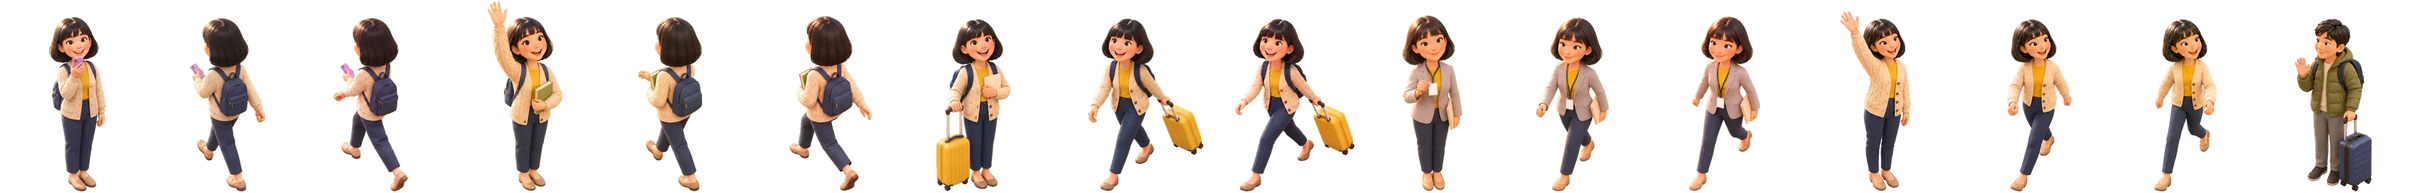
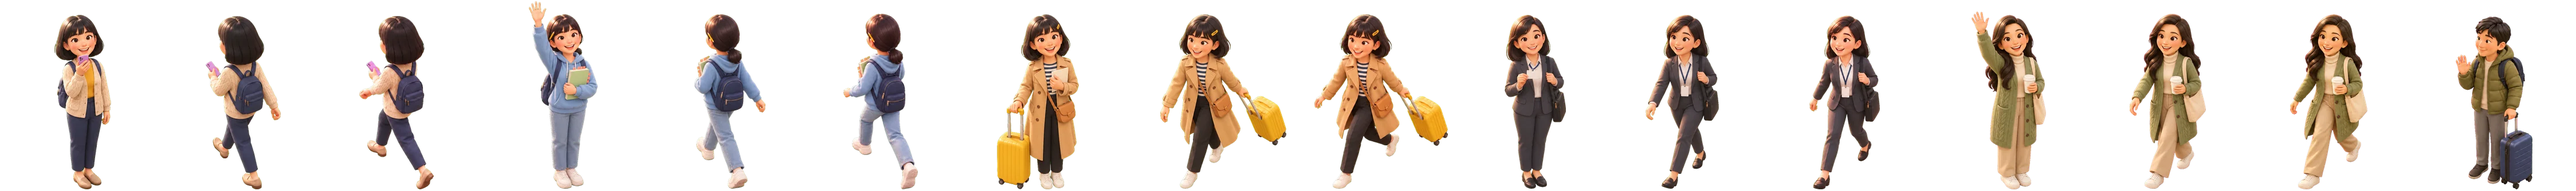
synk.im 새로 짓기: 마을 길을 걷는 학생이 단계마다 옷 · 머리 · 소품 · 나이가 달라지게(시안 한 · 영, 11-21 유호님 「변화가 없어 … 옷차림이나 이런거가 똑같아서 디테일이 부족해보여」)
교실은 하늘색 후드티와 묶은 머리, 유학은 트렌치코트와 여행 가방, 취업은 짙은 회색 정장과 사원증, 모임은 긴 웨이브 머리와 세이지색 카디건으로 다시 구웠다. 설 때 걷던 모습이 0.4초 동안 옅어지며 새 모습이 드러난다. 마을 안 장면 그림은 그대로라 옷이 다르다.

diff --git a/docs/디자인/synk.im_새로짓기_20261119/시안/en/index.html b/docs/디자인/synk.im_새로짓기_20261119/시안/en/index.html
@@ -176,6 +176,7 @@ html[data-sky="sunset"] .gate-sky::after{content:"";position:absolute;inset:0;ba
 /* 길을 걷는 학생과 집 앞의 후배: 그림띠 한 장에서 칸을 고른다. 자리 · 크기 · 칸은 스크립트가 정한다 */
 .w-fig{position:absolute;left:0;top:0;pointer-events:none}
 .w-fig i{position:absolute;inset:0;background:url(../assets/walk.webp) 0 0 no-repeat}
+.w-fig i+i{opacity:0}
 .w-fig::before{content:"";position:absolute;left:30%;width:56%;bottom:-2%;height:6%;border-radius:50%;background:radial-gradient(closest-side,rgba(84,60,32,.32),rgba(84,60,32,0))}
 .w-new{opacity:0;transition:opacity .8s var(--ease)}
 .w-new.on{opacity:1}
@@ -612,7 +613,7 @@ html[lang="en"] .hang .lines li.on h3{font-weight:600;-webkit-text-stroke:.024em
           <svg class="w-loop" viewBox="0 0 1536 1024" preserveAspectRatio="none" aria-hidden="true"><path class="draw" pathLength="100" d="M785.0 702.0 C775.8 698.0 767.2 690.3 760.0 684.0 C752.8 677.7 747.3 674.7 742.0 664.0 C736.7 653.3 732.0 635.7 728.0 620.0 C724.0 604.3 720.0 585.8 718.0 570.0 C716.0 554.2 715.7 538.3 716.0 525.0 C716.3 511.7 717.2 500.8 720.0 490.0 C722.8 479.2 727.2 468.3 733.0 460.0 C738.8 451.7 745.5 445.8 755.0 440.0 C764.5 434.2 775.8 428.7 790.0 425.0 C804.2 421.3 821.7 421.2 840.0 418.0 C858.3 414.8 880.0 409.5 900.0 406.0 C920.0 402.5 939.2 400.0 960.0 397.0 C980.8 394.0 1001.7 389.5 1025.0 388.0 C1048.3 386.5 1078.8 387.7 1100.0 388.0 C1121.2 388.3 1132.8 388.2 1152.0 390.0 C1171.2 391.8 1197.8 395.3 1215.0 399.0 C1232.2 402.7 1243.8 406.5 1255.0 412.0 C1266.2 417.5 1275.8 422.7 1282.0 432.0 C1288.2 441.3 1287.7 456.7 1292.0 468.0 C1296.3 479.3 1303.7 489.7 1308.0 500.0 C1312.3 510.3 1316.3 520.8 1318.0 530.0 C1319.7 539.2 1319.3 547.0 1318.0 555.0 C1316.7 563.0 1314.7 570.2 1310.0 578.0 C1305.3 585.8 1299.2 594.2 1290.0 602.0 C1280.8 609.8 1267.5 617.3 1255.0 625.0 C1242.5 632.7 1228.8 641.3 1215.0 648.0 C1201.2 654.7 1185.3 659.8 1172.0 665.0 C1158.7 670.2 1147.0 674.0 1135.0 679.0 C1123.0 684.0 1114.2 689.3 1100.0 695.0 C1085.8 700.7 1066.7 708.7 1050.0 713.0 C1033.3 717.3 1016.7 719.2 1000.0 721.0 C983.3 722.8 966.7 723.8 950.0 724.0 C933.3 724.2 916.7 723.7 900.0 722.0 C883.3 720.3 864.2 716.3 850.0 714.0 C835.8 711.7 825.8 710.0 815.0 708.0 C804.2 706.0 794.2 706.0 785.0 702.0Z"></path></svg>
           <img class="w-occ" src="../assets/occ-house.webp" alt=""><img class="w-occ" src="../assets/occ-cafe.webp" alt="">
           <div class="w-fig w-new" aria-hidden="true"><i></i></div>
-          <div class="w-fig w-me" aria-hidden="true"><i></i></div>
+          <div class="w-fig w-me" aria-hidden="true"><i></i><i></i></div>
           <ol class="w-pins" aria-label="The five places one person passes through"><li style="--x:44.99%;--y:51.86%"><button type="button"><b>1</b><span>Korean</span></button></li><li style="--x:53.32%;--y:29.39%"><button type="button"><b>2</b><span>Classroom</span></button></li><li style="--x:75.26%;--y:27.73%"><button type="button"><b>3</b><span>Study in Korea</span></button></li><li style="--x:90.17%;--y:39.75%"><button type="button"><b>4</b><span>Work in Korea</span></button></li><li style="--x:83.33%;--y:57.52%"><button type="button"><b>5</b><span>Community</span></button></li></ol>
         </div>
       </div>
@@ -890,7 +891,7 @@ html[lang="en"] .hang .lines li.on h3{font-weight:600;-webkit-text-stroke:.024em
      그곳의 말풍선이 켜진다. 길을 한 바퀴 돌아 집 앞에 오면 새로 온 후배가 서 있고 학생이 손을 흔든다. 한 번 돌고 멈춘다.
      그림띠 칸: 단계마다 [서 있기, 걷기 왼발, 걷기 오른발] 셋씩(한국어 · 교실은 뒤로 걷는 모습, 유학 · 취업 · 모임은 앞으로 걷는 모습), 마지막 칸은 후배.
      칸의 사람은 화면 왼쪽을 향한다. 오른쪽으로 걸을 때는 좌우를 뒤집는다 */
-  const WALK = {"n": 16, "ar": 0.7781, "body": 0.8876, "pad": 0.0118, "occ": [{"box": [636, 505, 800, 668], "base": 660, "x": [690, 800]}, {"box": [1095, 575, 1375, 745], "base": 706, "x": [1090, 1380]}]};
+  const WALK = {"n": 16, "ar": 0.8413, "body": 0.8982, "pad": 0.012, "occ": [{"box": [636, 505, 800, 668], "base": 660, "x": [690, 800]}, {"box": [1095, 575, 1375, 745], "base": 706, "x": [1090, 1380]}]};
   const me = $('.w-me'), newbie = $('.w-new'), pinLis = $$('li', pins), occs = $$('.w-occ');
   const LEN = loopDraw.getTotalLength(), at = f => loopDraw.getPointAtLength(clamp(f) * LEN);
   const SPEED = .14, STEP = 36, STAY = 1100, FIRST_STAY = 800;    // 그림 화소/ms, 걸음 한 번의 길이(그림 화소), 한 곳에 서 있는 시간(ms)
@@ -902,36 +903,44 @@ html[lang="en"] .hang .lines li.on h3{font-weight:600;-webkit-text-stroke:.024em
   for (let i = 0, f = 1; i <= 400; i++) { const a = at(i / 400), b = at(i / 400 + .003), dx = b.x - a.x, dl = Math.hypot(dx, b.y - a.y) || 1; if (dx / dl > .3) f = -1; else if (dx / dl < -.3) f = 1; FACE.push(f); }
   const PLAN = [];                                                    // [시작 ms, 끝 ms, 무엇]
   let T = 0;
-  const stay = (f, k, ms, pin) => { PLAN.push({ t0: T, t1: T + ms, f, k, pin }); T += ms; };
+  // was: 서기 직전까지 걷던 칸. 설 때 그 칸이 0.42초 동안 옅어지며 새 단계의 모습이 드러난다(옷 · 머리 · 소품이 한꺼번에 바뀌어 순간 교체는 튀어 보였다)
+  const stay = (f, k, ms, pin, was = -1, wasFlip = 1) => { PLAN.push({ t0: T, t1: T + ms, f, k, pin, was, wasFlip }); T += ms; };
   stay(0, 0, FIRST_STAY, 0);
+  let lastWas;
   for (let i = 0; i < 5; i++) {
     const d = (STOPS[i + 1] - STOPS[i]) * LEN, ms = d / SPEED;
     PLAN.push({ t0: T, t1: T + ms, from: STOPS[i], to: STOPS[i + 1], look: i, d }); T += ms;
-    if (i < 4) stay(STOPS[i + 1], 3 * (i + 1), STAY, i + 1);
+    const was = 3 * i + 1 + (Math.floor(d / STEP) % 2), wasFlip = FACE[Math.round(clamp(STOPS[i + 1]) * 400)];
+    if (i < 4) stay(STOPS[i + 1], 3 * (i + 1), STAY, i + 1, was, wasFlip);
+    else lastWas = [was, wasFlip];
   }
   const END = T + 900;                                                // 집 앞에 서고 길의 노란 줄이 다 이어지면 멈춘다
-  stay(STOPS[5], 12, Infinity, -1);
+  stay(STOPS[5], 12, Infinity, -1, ...lastWas);
   const last = PLAN[PLAN.length - 2], NEW_AT = last.t0 + (last.t1 - last.t0) * .45;   // 마지막 길의 절반쯤에서 후배가 나타난다
   function walkPose(t) {
     const s = PLAN.find(p => t < p.t1);
     if (s.from === undefined) {
       const u = clamp((t - s.t0) / 260), home = s.pin === -1;
-      return { f: s.f, k: s.k, flip: s.k === 12 ? -1 : 1, bob: 0, pop: 1 + .045 * Math.sin(Math.PI * u) * (s.t0 > 0), pin: s.pin, trail: home ? s.f + (1 - s.f) * smooth(0, 600, t - s.t0) : s.f, newbie: t >= NEW_AT };
+      return { f: s.f, k: s.k, flip: s.k === 12 ? -1 : 1, bob: 0, pop: 1 + .045 * Math.sin(Math.PI * u) * (s.t0 > 0), pin: s.pin, trail: home ? s.f + (1 - s.f) * smooth(0, 600, t - s.t0) : s.f, newbie: t >= NEW_AT,
+        was: s.was, wasFlip: s.wasFlip, fade: s.was < 0 ? 0 : 1 - smooth(0, 420, t - s.t0) };
     }
     const u = (t - s.t0) / (s.t1 - s.t0), e = .5 * u + .5 * u * u * (3 - 2 * u);    // 걷기 시작과 멈춤만 살짝 느리게
     const d = e * s.d, f = s.from + (s.to - s.from) * e, step = d / STEP;
-    return { f, k: 3 * s.look + 1 + (Math.floor(step) % 2), flip: FACE[Math.round(clamp(f) * 400)], bob: 1.4 * Math.abs(Math.sin(Math.PI * step)), pop: 1, pin: -1, trail: f, newbie: t >= NEW_AT };
+    return { f, k: 3 * s.look + 1 + (Math.floor(step) % 2), flip: FACE[Math.round(clamp(f) * 400)], bob: 1.4 * Math.abs(Math.sin(Math.PI * step)), pop: 1, pin: -1, trail: f, newbie: t >= NEW_AT, was: -1, fade: 0 };
   }
-  function place(el, x, y, k, flip, bob, pop) {
+  const cell = (im, k, flip, bob) => { im.style.backgroundPosition = `${k / (WALK.n - 1) * 100}% 0`; im.style.transform = `translateY(${-bob}%) scaleX(${flip})`; };
+  function place(el, x, y, st) {
     el.style.left = x / 15.36 + '%'; el.style.top = y / 10.24 + '%';
-    el.style.transform = `translate(-50%,${-(1 - WALK.pad) * 100}%) scale(${sizeOf(y) * pop})`;
-    const im = el.firstElementChild;
-    im.style.backgroundPosition = `${k / (WALK.n - 1) * 100}% 0`;
-    im.style.transform = `translateY(${-bob}%) scaleX(${flip})`;
+    el.style.transform = `translate(-50%,${-(1 - WALK.pad) * 100}%) scale(${sizeOf(y) * st.pop})`;
+    const [now, was] = el.children;
+    cell(now, st.k, st.flip, st.bob);
+    if (!was) return;
+    was.style.opacity = st.fade;
+    if (st.fade > 0) { cell(was, st.was, st.wasFlip, 0); now.style.opacity = 1 - st.fade * .6; } else now.style.opacity = 1;
   }
   function walkDraw(st, idle) {
     const p = at(st.f);
-    place(me, p.x, p.y, st.k, st.flip, st.bob, st.pop);
+    place(me, p.x, p.y, st);
     loopDraw.style.strokeDashoffset = idle || st.trail <= 0 ? 100.5 : 100 * (1 - st.trail);   // 아직 안 걸었으면 줄 끝의 둥근 마개도 보이지 않게
     pinLis.forEach((li, i) => li.classList.toggle('here', !idle && i === st.pin));
     newbie.classList.toggle('on', !idle && st.newbie);
@@ -940,9 +949,9 @@ html[lang="en"] .hang .lines li.on h3{font-weight:600;-webkit-text-stroke:.024em
   [me, newbie].forEach(el => {                                       // 칸 하나의 크기: 집 앞에서 사람 키가 그림 화소로 94(처음 그림 속 학생보다 조금 작게, 건물과 어울리게)
     el.style.width = 94 / WALK.body * WALK.ar / 15.36 + '%'; el.style.aspectRatio = WALK.ar;
     el.style.transformOrigin = `50% ${(1 - WALK.pad) * 100}%`;
-    const im = el.firstElementChild; im.style.backgroundSize = `${WALK.n * 100}% 100%`; im.style.transformOrigin = `50% ${(1 - WALK.pad) * 100}%`;
+    for (const im of el.children) { im.style.backgroundSize = `${WALK.n * 100}% 100%`; im.style.transformOrigin = `50% ${(1 - WALK.pad) * 100}%`; }
   });
-  { const p = at(0); place(newbie, p.x, p.y, WALK.n - 1, -1, 0, 1); }
+  { const p = at(0); place(newbie, p.x, p.y, { k: WALK.n - 1, flip: -1, bob: 0, pop: 1 }); }
   occs.forEach((o, i) => { const [x0, y0, x1, y1] = WALK.occ[i].box; Object.assign(o.style, { left: x0 / 15.36 + '%', top: y0 / 10.24 + '%', width: (x1 - x0) / 15.36 + '%', height: (y1 - y0) / 10.24 + '%' }); });
   let walkT0 = 0, walkRaf = 0, walking = false, walkIdle = false;
   function walkFrame(now) { const t = now - walkT0; walkDraw(walkPose(t)); walkRaf = t < END ? requestAnimationFrame(walkFrame) : 0; }

diff --git a/docs/디자인/synk.im_새로짓기_20261119/시안/index.html b/docs/디자인/synk.im_새로짓기_20261119/시안/index.html
@@ -177,6 +177,7 @@ html[data-sky="sunset"] .gate-sky::after{content:"";position:absolute;inset:0;ba
 /* 길을 걷는 학생과 집 앞의 후배: 그림띠 한 장에서 칸을 고른다. 자리 · 크기 · 칸은 스크립트가 정한다 */
 .w-fig{position:absolute;left:0;top:0;pointer-events:none}
 .w-fig i{position:absolute;inset:0;background:url(assets/walk.webp) 0 0 no-repeat}
+.w-fig i+i{opacity:0}
 .w-fig::before{content:"";position:absolute;left:30%;width:56%;bottom:-2%;height:6%;border-radius:50%;background:radial-gradient(closest-side,rgba(84,60,32,.32),rgba(84,60,32,0))}
 .w-new{opacity:0;transition:opacity .8s var(--ease)}
 .w-new.on{opacity:1}
@@ -590,7 +591,7 @@ p{text-wrap:pretty}
           <svg class="w-loop" viewBox="0 0 1536 1024" preserveAspectRatio="none" aria-hidden="true"><path class="draw" pathLength="100" d="M785.0 702.0 C775.8 698.0 767.2 690.3 760.0 684.0 C752.8 677.7 747.3 674.7 742.0 664.0 C736.7 653.3 732.0 635.7 728.0 620.0 C724.0 604.3 720.0 585.8 718.0 570.0 C716.0 554.2 715.7 538.3 716.0 525.0 C716.3 511.7 717.2 500.8 720.0 490.0 C722.8 479.2 727.2 468.3 733.0 460.0 C738.8 451.7 745.5 445.8 755.0 440.0 C764.5 434.2 775.8 428.7 790.0 425.0 C804.2 421.3 821.7 421.2 840.0 418.0 C858.3 414.8 880.0 409.5 900.0 406.0 C920.0 402.5 939.2 400.0 960.0 397.0 C980.8 394.0 1001.7 389.5 1025.0 388.0 C1048.3 386.5 1078.8 387.7 1100.0 388.0 C1121.2 388.3 1132.8 388.2 1152.0 390.0 C1171.2 391.8 1197.8 395.3 1215.0 399.0 C1232.2 402.7 1243.8 406.5 1255.0 412.0 C1266.2 417.5 1275.8 422.7 1282.0 432.0 C1288.2 441.3 1287.7 456.7 1292.0 468.0 C1296.3 479.3 1303.7 489.7 1308.0 500.0 C1312.3 510.3 1316.3 520.8 1318.0 530.0 C1319.7 539.2 1319.3 547.0 1318.0 555.0 C1316.7 563.0 1314.7 570.2 1310.0 578.0 C1305.3 585.8 1299.2 594.2 1290.0 602.0 C1280.8 609.8 1267.5 617.3 1255.0 625.0 C1242.5 632.7 1228.8 641.3 1215.0 648.0 C1201.2 654.7 1185.3 659.8 1172.0 665.0 C1158.7 670.2 1147.0 674.0 1135.0 679.0 C1123.0 684.0 1114.2 689.3 1100.0 695.0 C1085.8 700.7 1066.7 708.7 1050.0 713.0 C1033.3 717.3 1016.7 719.2 1000.0 721.0 C983.3 722.8 966.7 723.8 950.0 724.0 C933.3 724.2 916.7 723.7 900.0 722.0 C883.3 720.3 864.2 716.3 850.0 714.0 C835.8 711.7 825.8 710.0 815.0 708.0 C804.2 706.0 794.2 706.0 785.0 702.0Z"/></svg>
           <img class="w-occ" src="assets/occ-house.webp" alt=""><img class="w-occ" src="assets/occ-cafe.webp" alt="">
           <div class="w-fig w-new" aria-hidden="true"><i></i></div>
-          <div class="w-fig w-me" aria-hidden="true"><i></i></div>
+          <div class="w-fig w-me" aria-hidden="true"><i></i><i></i></div>
           <ol class="w-pins" aria-label="한 사람이 지나는 다섯 곳"><li style="--x:44.99%;--y:51.86%"><button type="button"><b>1</b><span>한국어</span></button></li><li style="--x:53.32%;--y:29.39%"><button type="button"><b>2</b><span>교실</span></button></li><li style="--x:75.26%;--y:27.73%"><button type="button"><b>3</b><span>유학</span></button></li><li style="--x:90.17%;--y:39.75%"><button type="button"><b>4</b><span>취업</span></button></li><li style="--x:83.33%;--y:57.52%"><button type="button"><b>5</b><span>모임</span></button></li></ol>
         </div>
       </div>
@@ -868,7 +869,7 @@ p{text-wrap:pretty}
      그곳의 말풍선이 켜진다. 길을 한 바퀴 돌아 집 앞에 오면 새로 온 후배가 서 있고 학생이 손을 흔든다. 한 번 돌고 멈춘다.
      그림띠 칸: 단계마다 [서 있기, 걷기 왼발, 걷기 오른발] 셋씩(한국어 · 교실은 뒤로 걷는 모습, 유학 · 취업 · 모임은 앞으로 걷는 모습), 마지막 칸은 후배.
      칸의 사람은 화면 왼쪽을 향한다. 오른쪽으로 걸을 때는 좌우를 뒤집는다 */
-  const WALK = {"n": 16, "ar": 0.7781, "body": 0.8876, "pad": 0.0118, "occ": [{"box": [636, 505, 800, 668], "base": 660, "x": [690, 800]}, {"box": [1095, 575, 1375, 745], "base": 706, "x": [1090, 1380]}]};
+  const WALK = {"n": 16, "ar": 0.8413, "body": 0.8982, "pad": 0.012, "occ": [{"box": [636, 505, 800, 668], "base": 660, "x": [690, 800]}, {"box": [1095, 575, 1375, 745], "base": 706, "x": [1090, 1380]}]};
   const me = $('.w-me'), newbie = $('.w-new'), pinLis = $$('li', pins), occs = $$('.w-occ');
   const LEN = loopDraw.getTotalLength(), at = f => loopDraw.getPointAtLength(clamp(f) * LEN);
   const SPEED = .14, STEP = 36, STAY = 1100, FIRST_STAY = 800;    // 그림 화소/ms, 걸음 한 번의 길이(그림 화소), 한 곳에 서 있는 시간(ms)
@@ -880,36 +881,44 @@ p{text-wrap:pretty}
   for (let i = 0, f = 1; i <= 400; i++) { const a = at(i / 400), b = at(i / 400 + .003), dx = b.x - a.x, dl = Math.hypot(dx, b.y - a.y) || 1; if (dx / dl > .3) f = -1; else if (dx / dl < -.3) f = 1; FACE.push(f); }
   const PLAN = [];                                                    // [시작 ms, 끝 ms, 무엇]
   let T = 0;
-  const stay = (f, k, ms, pin) => { PLAN.push({ t0: T, t1: T + ms, f, k, pin }); T += ms; };
+  // was: 서기 직전까지 걷던 칸. 설 때 그 칸이 0.42초 동안 옅어지며 새 단계의 모습이 드러난다(옷 · 머리 · 소품이 한꺼번에 바뀌어 순간 교체는 튀어 보였다)
+  const stay = (f, k, ms, pin, was = -1, wasFlip = 1) => { PLAN.push({ t0: T, t1: T + ms, f, k, pin, was, wasFlip }); T += ms; };
   stay(0, 0, FIRST_STAY, 0);
+  let lastWas;
   for (let i = 0; i < 5; i++) {
     const d = (STOPS[i + 1] - STOPS[i]) * LEN, ms = d / SPEED;
     PLAN.push({ t0: T, t1: T + ms, from: STOPS[i], to: STOPS[i + 1], look: i, d }); T += ms;
-    if (i < 4) stay(STOPS[i + 1], 3 * (i + 1), STAY, i + 1);
+    const was = 3 * i + 1 + (Math.floor(d / STEP) % 2), wasFlip = FACE[Math.round(clamp(STOPS[i + 1]) * 400)];
+    if (i < 4) stay(STOPS[i + 1], 3 * (i + 1), STAY, i + 1, was, wasFlip);
+    else lastWas = [was, wasFlip];
   }
   const END = T + 900;                                                // 집 앞에 서고 길의 노란 줄이 다 이어지면 멈춘다
-  stay(STOPS[5], 12, Infinity, -1);
+  stay(STOPS[5], 12, Infinity, -1, ...lastWas);
   const last = PLAN[PLAN.length - 2], NEW_AT = last.t0 + (last.t1 - last.t0) * .45;   // 마지막 길의 절반쯤에서 후배가 나타난다
   function walkPose(t) {
     const s = PLAN.find(p => t < p.t1);
     if (s.from === undefined) {
       const u = clamp((t - s.t0) / 260), home = s.pin === -1;
-      return { f: s.f, k: s.k, flip: s.k === 12 ? -1 : 1, bob: 0, pop: 1 + .045 * Math.sin(Math.PI * u) * (s.t0 > 0), pin: s.pin, trail: home ? s.f + (1 - s.f) * smooth(0, 600, t - s.t0) : s.f, newbie: t >= NEW_AT };
+      return { f: s.f, k: s.k, flip: s.k === 12 ? -1 : 1, bob: 0, pop: 1 + .045 * Math.sin(Math.PI * u) * (s.t0 > 0), pin: s.pin, trail: home ? s.f + (1 - s.f) * smooth(0, 600, t - s.t0) : s.f, newbie: t >= NEW_AT,
+        was: s.was, wasFlip: s.wasFlip, fade: s.was < 0 ? 0 : 1 - smooth(0, 420, t - s.t0) };
     }
     const u = (t - s.t0) / (s.t1 - s.t0), e = .5 * u + .5 * u * u * (3 - 2 * u);    // 걷기 시작과 멈춤만 살짝 느리게
     const d = e * s.d, f = s.from + (s.to - s.from) * e, step = d / STEP;
-    return { f, k: 3 * s.look + 1 + (Math.floor(step) % 2), flip: FACE[Math.round(clamp(f) * 400)], bob: 1.4 * Math.abs(Math.sin(Math.PI * step)), pop: 1, pin: -1, trail: f, newbie: t >= NEW_AT };
+    return { f, k: 3 * s.look + 1 + (Math.floor(step) % 2), flip: FACE[Math.round(clamp(f) * 400)], bob: 1.4 * Math.abs(Math.sin(Math.PI * step)), pop: 1, pin: -1, trail: f, newbie: t >= NEW_AT, was: -1, fade: 0 };
   }
-  function place(el, x, y, k, flip, bob, pop) {
+  const cell = (im, k, flip, bob) => { im.style.backgroundPosition = `${k / (WALK.n - 1) * 100}% 0`; im.style.transform = `translateY(${-bob}%) scaleX(${flip})`; };
+  function place(el, x, y, st) {
     el.style.left = x / 15.36 + '%'; el.style.top = y / 10.24 + '%';
-    el.style.transform = `translate(-50%,${-(1 - WALK.pad) * 100}%) scale(${sizeOf(y) * pop})`;
-    const im = el.firstElementChild;
-    im.style.backgroundPosition = `${k / (WALK.n - 1) * 100}% 0`;
-    im.style.transform = `translateY(${-bob}%) scaleX(${flip})`;
+    el.style.transform = `translate(-50%,${-(1 - WALK.pad) * 100}%) scale(${sizeOf(y) * st.pop})`;
+    const [now, was] = el.children;
+    cell(now, st.k, st.flip, st.bob);
+    if (!was) return;
+    was.style.opacity = st.fade;
+    if (st.fade > 0) { cell(was, st.was, st.wasFlip, 0); now.style.opacity = 1 - st.fade * .6; } else now.style.opacity = 1;
   }
   function walkDraw(st, idle) {
     const p = at(st.f);
-    place(me, p.x, p.y, st.k, st.flip, st.bob, st.pop);
+    place(me, p.x, p.y, st);
     loopDraw.style.strokeDashoffset = idle || st.trail <= 0 ? 100.5 : 100 * (1 - st.trail);   // 아직 안 걸었으면 줄 끝의 둥근 마개도 보이지 않게
     pinLis.forEach((li, i) => li.classList.toggle('here', !idle && i === st.pin));
     newbie.classList.toggle('on', !idle && st.newbie);
@@ -918,9 +927,9 @@ p{text-wrap:pretty}
   [me, newbie].forEach(el => {                                       // 칸 하나의 크기: 집 앞에서 사람 키가 그림 화소로 94(처음 그림 속 학생보다 조금 작게, 건물과 어울리게)
     el.style.width = 94 / WALK.body * WALK.ar / 15.36 + '%'; el.style.aspectRatio = WALK.ar;
     el.style.transformOrigin = `50% ${(1 - WALK.pad) * 100}%`;
-    const im = el.firstElementChild; im.style.backgroundSize = `${WALK.n * 100}% 100%`; im.style.transformOrigin = `50% ${(1 - WALK.pad) * 100}%`;
+    for (const im of el.children) { im.style.backgroundSize = `${WALK.n * 100}% 100%`; im.style.transformOrigin = `50% ${(1 - WALK.pad) * 100}%`; }
   });
-  { const p = at(0); place(newbie, p.x, p.y, WALK.n - 1, -1, 0, 1); }
+  { const p = at(0); place(newbie, p.x, p.y, { k: WALK.n - 1, flip: -1, bob: 0, pop: 1 }); }
   occs.forEach((o, i) => { const [x0, y0, x1, y1] = WALK.occ[i].box; Object.assign(o.style, { left: x0 / 15.36 + '%', top: y0 / 10.24 + '%', width: (x1 - x0) / 15.36 + '%', height: (y1 - y0) / 10.24 + '%' }); });
   let walkT0 = 0, walkRaf = 0, walking = false, walkIdle = false;
   function walkFrame(now) { const t = now - walkT0; walkDraw(walkPose(t)); walkRaf = t < END ? requestAnimationFrame(walkFrame) : 0; }

diff --git a/docs/디자인/synk.im_새로짓기_20261119/README.md b/docs/디자인/synk.im_새로짓기_20261119/README.md
@@ -336,12 +336,23 @@ PATH, 솔리오, 회사 본체는 두 곳에 계정이 없어 걸지 않았다. 
 
 유호님 「여기 점이 빙빙 도는데 이거 매우 별로야. 차라리 저 사람이 저 원을 걸으면서 학생>유학>취업 이 과정을 단계별로 표현해주는게 어때? 총 5단계로」(11-21, 마을 구역 끝 장면). 시안에만 넣었고 공개본(synk.im)은 아직 점이 도는 판이다.
 
-- **움직임.** 마을 전체로 다시 나오면 학생이 집 앞에서 출발해 길을 한 바퀴 걷는다. 다섯 곳에 1.1초씩 서고, 설 때마다 그곳의 말풍선이 켜지고 모습이 그 단계로 바뀐다. 한국어는 휴대폰, 교실은 교과서를 안고 손 들기, 유학은 노란 여행 가방과 입학 봉투, 취업은 회색 재킷과 사원증, 모임은 손 흔들기다. 집에 돌아오면 새로 온 후배(올리브 패딩, 남색 가방)가 서 있고 학생이 손을 흔든다. 길의 노란 줄은 학생 뒤를 따라 그려진다. 한 바퀴(약 17초) 돌고 멈춘다. 장면 안으로 되돌아가면 집 앞으로 돌아가 다시 시작한다.
+- **움직임.** 마을 전체로 다시 나오면 학생이 집 앞에서 출발해 길을 한 바퀴 걷는다. 다섯 곳에 1.1초씩 서고, 설 때마다 그곳의 말풍선이 켜지고 걷던 모습이 0.4초 동안 옅어지며 그 단계의 모습이 드러난다. 집에 돌아오면 새로 온 후배(올리브 패딩, 남색 가방)가 서 있고 학생이 손을 흔든다.
+- **단계마다 달라지는 모습.** 첫 판은 옷이 거의 같아 유호님이 「변화가 없어. 한국어 배울때부터 취업까지 많은 변화가있을거야. 옷차림이나 이런거가 똑같아서 디테일이 부족해보여」라고 하셨다(11-21). 그래서 옷, 머리, 소품, 나이를 단계마다 바꿨다.
+
+| 곳 | 나이 | 옷과 소품 | 머리 |
+|---|---|---|---|
+| 한국어(집) | 17 | 크림 카디건, 겨자색 윗옷, 남색 바지, 휴대폰 | 앞머리 있는 짧은 단발 |
+| 교실 | 18 | 하늘색 후드티, 청바지, 운동화, TOPIK 문제집, 귀에 꽂은 연필 | 작게 묶은 머리 |
+| 유학(대학 정문) | 20 | 베이지 트렌치코트, 줄무늬 윗옷, 노란 여행 가방, 입학 봉투 | 어깨 위 길이에 머리핀 |
+| 취업(회사) | 24 | 짙은 회색 정장, 흰 블라우스, 사원증, 노트북 가방 | 어깨 길이, 옆으로 넘긴 머리 |
+| 모임(카페) | 26 | 크림 터틀넥, 세이지색 긴 카디건, 베이지 바지, 커피, 천 가방 | 긴 웨이브 머리 |
+
+  마을 안 장면 그림(`in-2` · `in-3` · `in-5`)은 아직 크림 카디건이라 걷는 모습과 옷이 다르다. 길의 노란 줄은 학생 뒤를 따라 그려진다. 한 바퀴(약 17초) 돌고 멈춘다. 장면 안으로 되돌아가면 집 앞으로 돌아가 다시 시작한다.
 - **좁은 화면과 움직임 줄이기.** 900px 아래에서는 마을 그림이 화면에 들어올 때 한 번 걷는다. 움직임을 줄였으면 학생은 집 앞에 서 있고 길은 다 그려져 있다.
-- **그림.** 마을 그림에서 학생을 지운 판(`assets/town-road.webp`)을 같은 엔진으로 굽고 `tools/층나누기.py`로 학생 자리 둘레만 바꿨다. 학생의 모습 열다섯과 후배는 크로마 바탕 판으로 구워 오려 그림띠 한 장(`assets/walk.webp`, 190KB)에 모았다. 걷기는 왼발 · 오른발 두 칸이고, 처음 판의 둘째 칸이 같은 발이라 반대 발 판을 따로 고쳐 구웠다. 길은 집 뒤와 카페 뒤로 지나가서, 학생이 그 뒤에 있을 때만 집과 카페 조각(`assets/occ-house.webp`, `occ-cafe.webp`)을 학생 위에 얹는다. 지시문은 [지시문/](지시문/)의 `마을_빈판.txt` · `걷기_*.txt`, 원본은 `SYNK-보관함/연구/synk.im_새로짓기_20261119/판/걷기/`다.
+- **그림.** 마을 그림에서 학생을 지운 판(`assets/town-road.webp`)을 같은 엔진으로 굽고 `tools/층나누기.py`로 학생 자리 둘레만 바꿨다. 학생의 모습 열다섯과 후배는 크로마 바탕 판으로 구워 오려 그림띠 한 장(`assets/walk.webp`, 198KB)에 모았다. 교실부터 모임까지는 첫 단계 모습을 얼굴 참고로 넣고 「같은 사람, 몇 년 뒤」로 구웠다(지시문 `성장_*.txt`). 걷기는 왼발 · 오른발 두 칸이고, 한 판에 함께 그리면 같은 발이 앞이라 반대 발 판을 따로 고쳐 구웠다. 길은 집 뒤와 카페 뒤로 지나가서, 학생이 그 뒤에 있을 때만 집과 카페 조각(`assets/occ-house.webp`, `occ-cafe.webp`)을 학생 위에 얹는다. 지시문은 [지시문/](지시문/)의 `마을_빈판.txt` · `걷기_*.txt`, 원본은 `SYNK-보관함/연구/synk.im_새로짓기_20261119/판/걷기/`다.
 - **원고.** `v2/frag.*`(구역)과 `build2.py`(길의 가운데 줄을 다시 짚음, 그림띠 칸 정보를 넣음), 그림띠와 조각은 `walk_atlas.py`가 만든다. 영어판은 홈만 다시 지었다.
 - **확인.** 1440×900에서 시각마다 찍어 다섯 단계와 끝 장면을 봤고, 1280×800에서 실제 속도로 녹화해 걸음과 가림을 봤다. 390×844와 움직임 줄이기에서 가로 넘침 0, 실패 요청 0이다. 실제 휴대폰은 보지 않았다.
-- **다음부터 지킬 것.** 길이나 순서를 보이는 움직임은 화면을 계속 도는 추상 표시(점, 선)로 만들지 않는다. 그 그림 속 인물이 한 번 걸으며 멈추는 자리마다 단계를 보이게 한다.
+- **다음부터 지킬 것.** 길이나 순서를 보이는 움직임은 화면을 계속 도는 추상 표시(점, 선)로 만들지 않는다. 그 그림 속 인물이 한 번 걸으며 멈추는 자리마다 단계를 보이게 한다. 단계마다 인물의 옷, 머리, 소품, 나이가 작은 화면에서도 한눈에 달라 보여야 한다. 소품 하나만 바꾼 판은 「변화가 없다」로 읽혔다.
 
 ## 공개 판(v11, 11-20)
 
